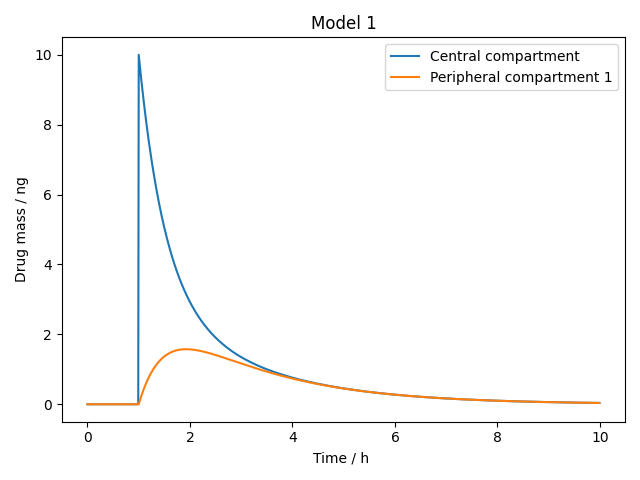
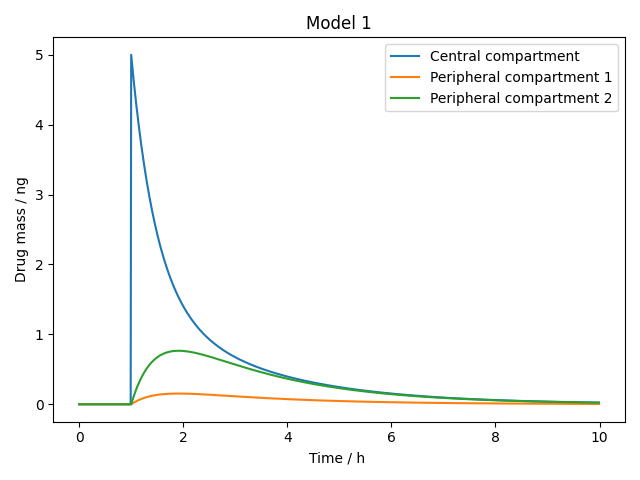
Change plotPK inputs

diff --git a/pkmodel_zxara/output.py b/pkmodel_zxara/output.py
@@ -1,12 +1,14 @@
 import numpy as np
 import csv
 
-def plotPK(time, concentration, dosage_comp, n_models=1):    
+def plotPK(plot_data):   
+    # time, concentration, dosage_comp, n_models=1
     '''Plot pharmacokinetic models.
 
     Plots different pharmacokinetic models next to each other.
     
     Parameters:
+    plot_data: list of lists
     time (list): Array of time points / h
     concentration (list): List of concentration points # TODO: Conc? Units?
     dosage_comp (list): From Model object. Empty if no dosage compartment.
@@ -17,23 +19,24 @@ def plotPK(time, concentration, dosage_comp, n_models=1):
     '''
 
     import matplotlib.pyplot as plt
-  
-    fig, axes = plt.subplots(nrows=1, ncols= n_models)
-    ylabel = 'Drug mass / ng' # TODO: Conc?
+
+    fig, axes = plt.subplots(nrows=1, ncols=len(plot_data))
+
+    ylabel = 'Drug mass / ng'  # TODO: Conc?
     xlabel = 'Time / h '
     legend = ['Dosage compartment', 'Central compartment']
     # Add peripherals to legend
-    for i in range(0, concentration.shape[1]-2):
+    for i in range(0, plot_data[0][1].shape[1]-2):
         legend.append(f"Peripheral compartment {i+1}")
 
     # Strip dosage compartment data if non-existant
-    if dosage_comp == []:
-        time = np.delete(time, 0, 1)
-        concentration = np.delete(concentration, 0, 1)
+    if plot_data[0][2] == []:
+        plot_data[0][0] = np.delete(plot_data[0][0], 0, 1)
+        plot_data[0][1] = np.delete(plot_data[0][1], 0, 1)
         legend.remove('Dosage compartment')
 
-    if n_models == 1: # Otherwise error that AxesSubplot object is not subscriptable
-        axes.plot(time, concentration)
+    if len(plot_data):  # Otherwise error that AxesSubplot object is not subscriptable
+        axes.plot(plot_data[0][0], plot_data[0][1])
         axes.set_title('Model 1')
         axes.set_ylabel(ylabel)
         axes.set_xlabel(xlabel)

diff --git a/pkmodel_zxara/core.py b/pkmodel_zxara/core.py
@@ -3,27 +3,26 @@ from model import Model
 import PK_model_setup as pkmod
 from output import *
 
-# # Collect model input data 
-# central = central_input()
-# peripherals = peripheral_input()
-# dosage = dosage_input()
+plot_data = []
 
-# sys_model = Model(central, peripherals, dosage) # Create Model object
+# Collect model input data 
+central = central_input()
+peripherals = peripheral_input()
+dosage = dosage_input()
 
-# # Collect protocol input data
-# dosing_array = input_doses()
-# TMAX = max_time_input()
+sys_model = Model(central, peripherals, dosage) # Create Model object
 
-# # Add solver here
+# Collect protocol input data
+dosing_array = input_doses()
+TMAX = max_time_input()
 
-# time_vals, conc_vals = pkmod.PK_solver(sys_model=sys_model, TMAX=TMAX, DOSE_REGIME=dosing_array)
-
-sys_model = Model([10,10], [[5,5]], []) # Create Model object
-TMAX = 10
-dosing_array = [[1,1,10]]
 sol_values = pkmod.PK_solver(sys_model=sys_model, TMAX=TMAX, DOSE_REGIME=dosing_array)
 
-plotPK(time_vals, conc_vals, sys_model.dosage)
+plot_data.append([sol_values[0], sol_values[1], sys_model.dosage])
+
+add_model = check_error_string_input(add_model, ['Y','N'],'Do you want to compare another model? ')
+
+plotPK(plot_data)
 # Add plotting here
 
 # Add return graphs and CSV here (CSV currently only outputs model input parameters)
